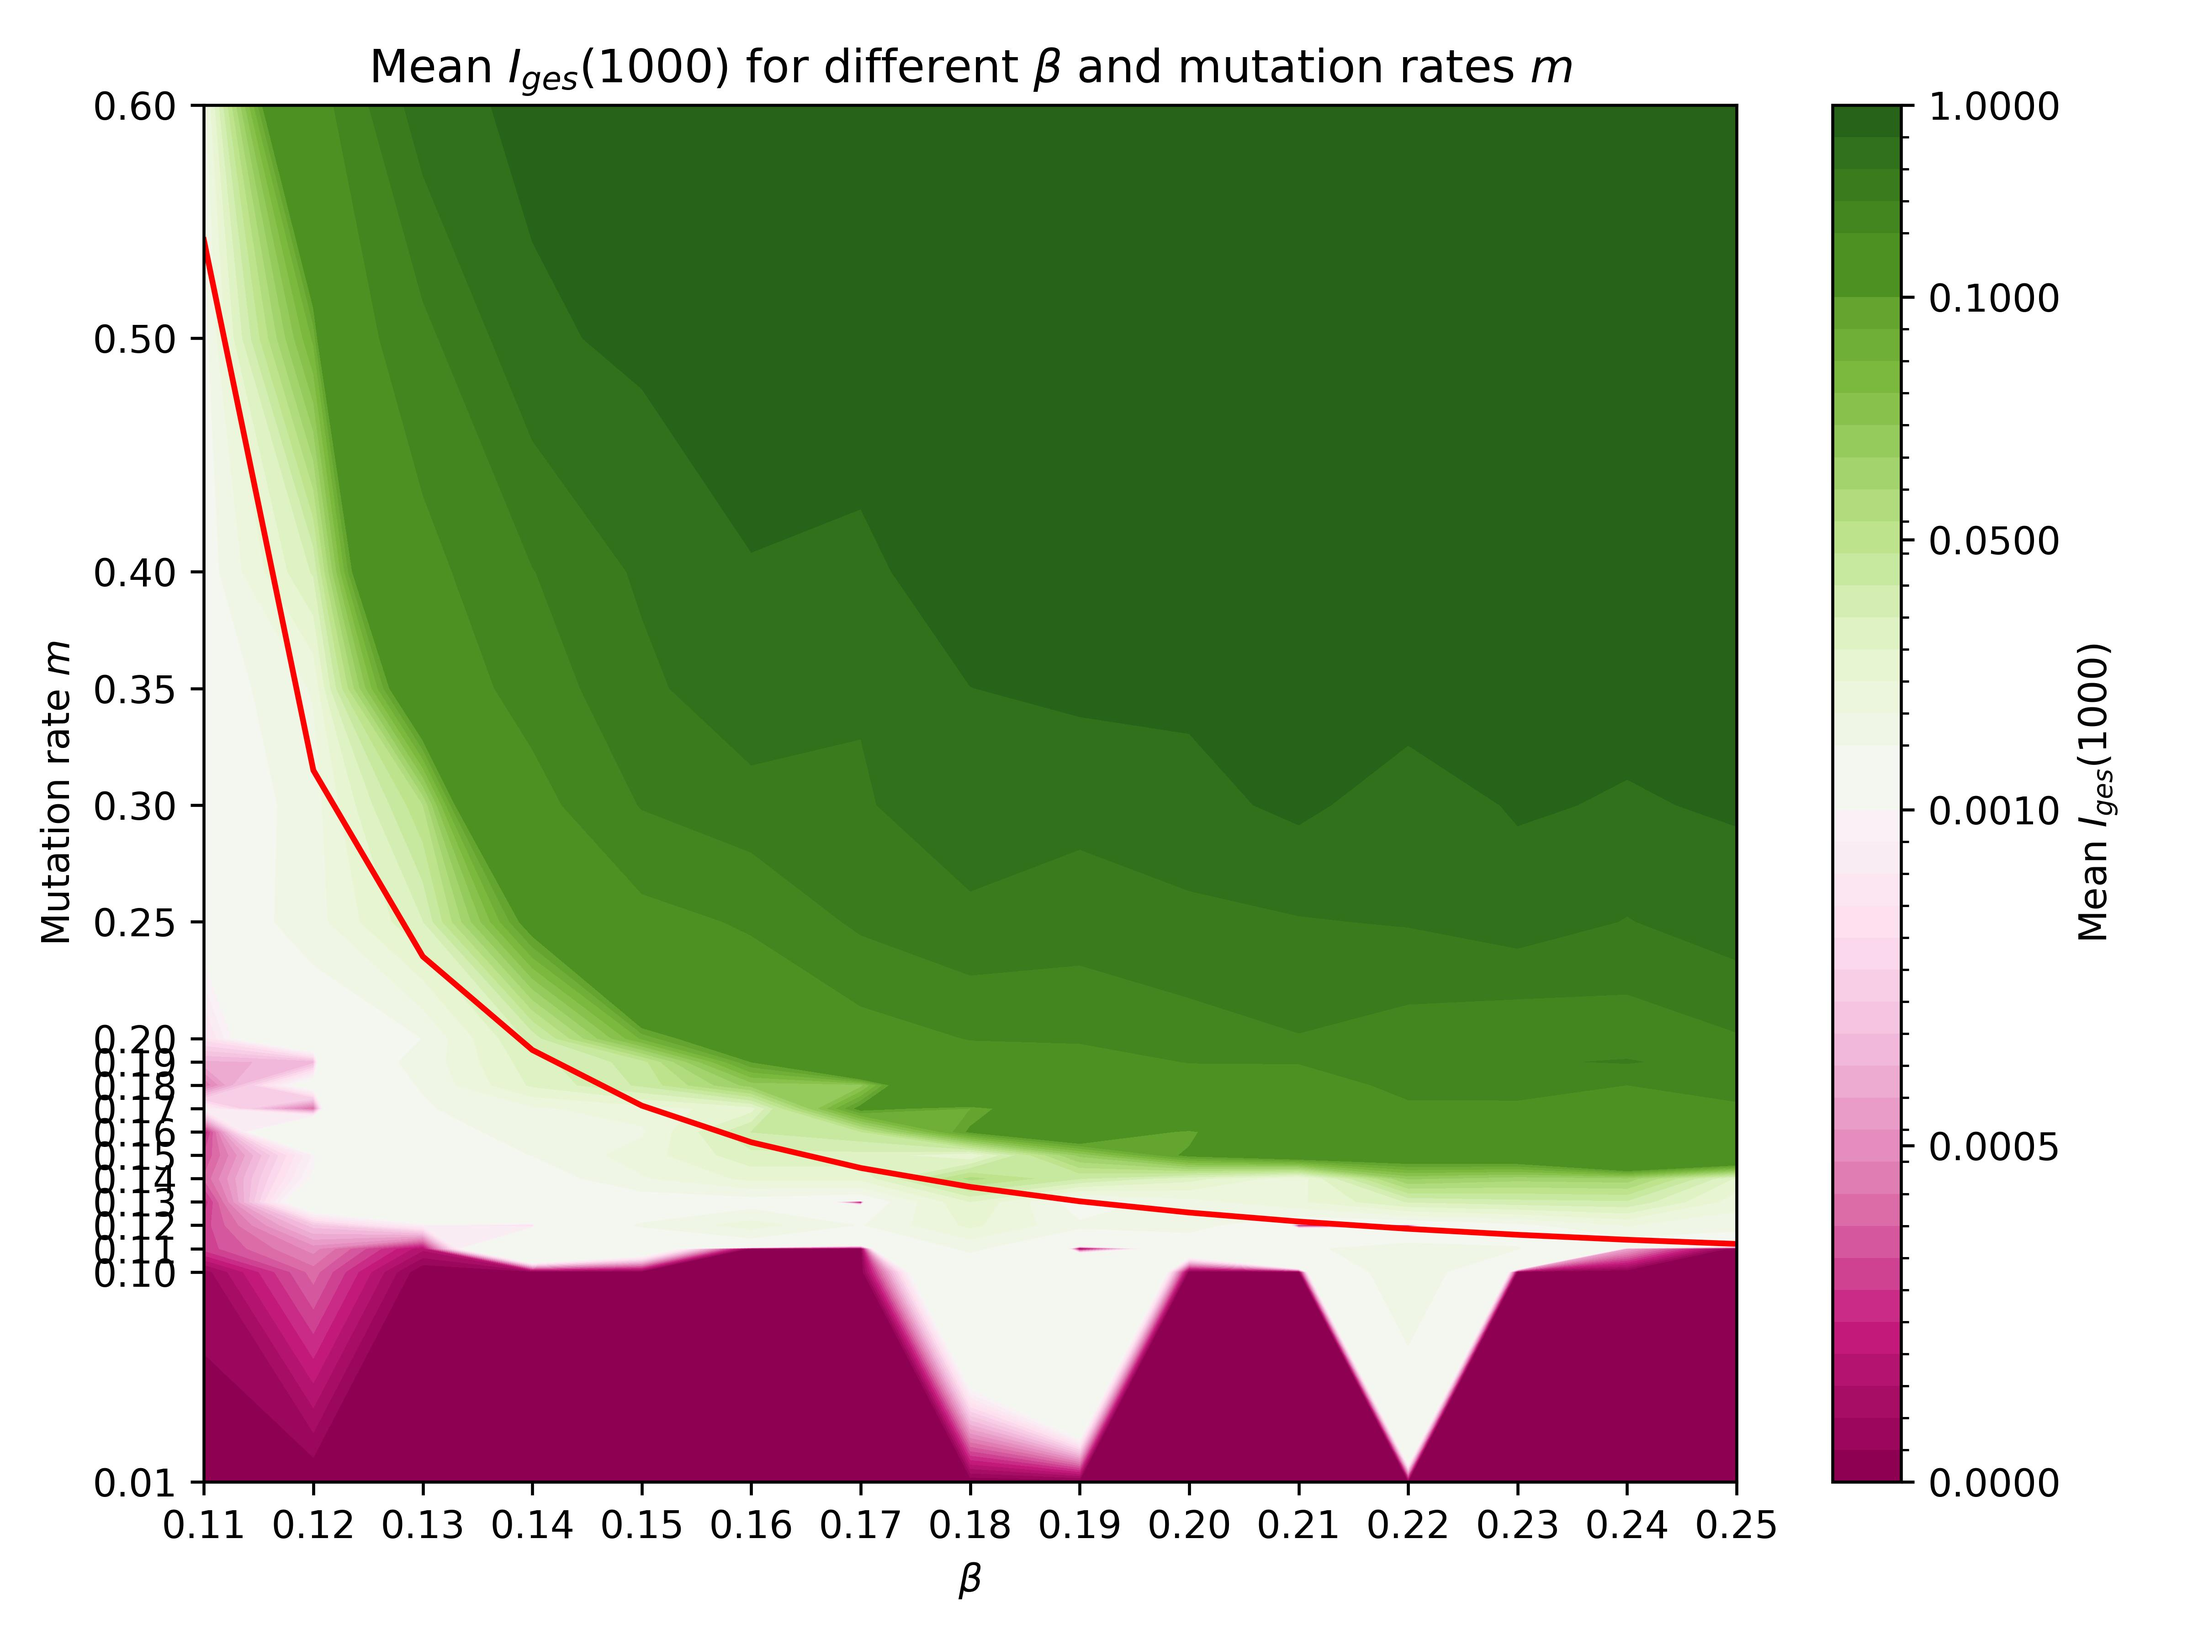
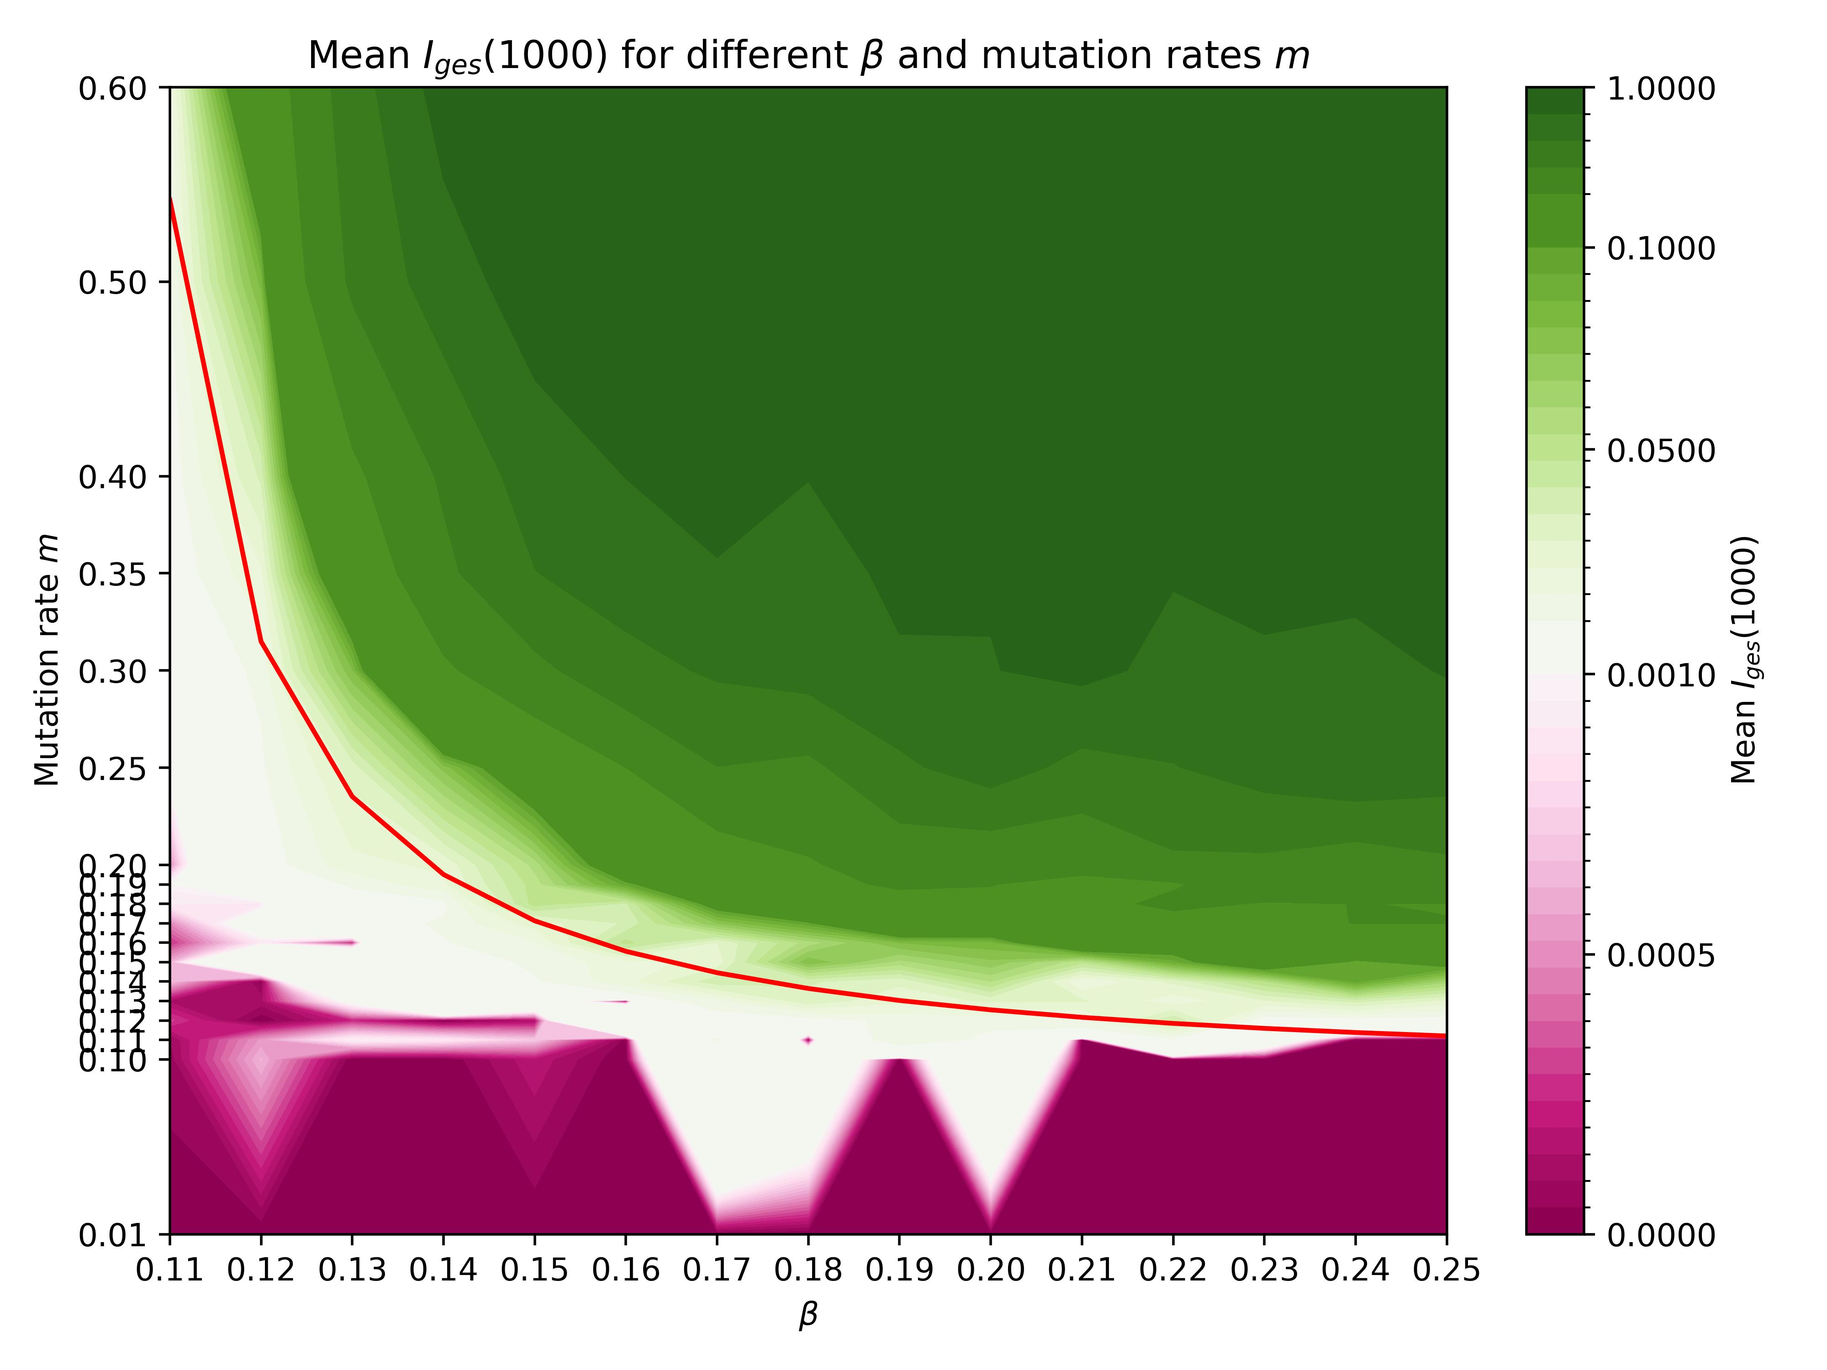
Added example computation

Changed region(s): [[0.0938, 0.403, 0.8125, 0.899], [0.0938, 0.062, 0.125, 0.093]]

diff --git a/Examples/Cross Immunity Model/final_infections_multi_variant_model_delayed_mutation_store_numpy.py b/Examples/Cross Immunity Model/final_infections_multi_variant_model_delayed_mutation_store_numpy.py
@@ -1,0 +1,173 @@
+# -*- coding: utf-8 -*-
+"""
+Created on Tue Oct 14 15:37:51 2025
+
+@author: schulte
+"""
+import numpy as np
+import os
+import matplotlib.pyplot as plt
+from numerical_simulation_of_shsvd import solve_hsvd
+from cross_immunity_model import (
+    multi_variant_model_with_total_infections,
+    new_variant_transition_function_with_total_infections,
+)
+
+"""
+Computes the final number of infections with two variants in a cross-immunity
+SIR-like model, where the second variant appears with a fixed delay, and
+stores it in a numpy array
+"""
+
+t0 = 0
+tf = 1000
+x0 = np.array([0.999, 0, 0.001, 0.001])
+beta = [0.15]
+gamma = [0.1]
+sigma = [[1]]
+gamma_new = 0.1
+t_eval = np.arange(tf + 1)
+
+betas = np.linspace(0.11, 0.2, 91)
+betas = np.round(betas, 3)
+cross_immunities = np.linspace(0, 1, 201)
+cross_immunities = np.round(cross_immunities, 3)
+delays = np.linspace(0, 250, 126)
+delays = np.round(delays)
+
+final_infections_1 = np.zeros((len(betas), len(cross_immunities), len(delays)))
+final_infections_2 = np.zeros((len(betas), len(cross_immunities), len(delays)))
+
+file_name_1 = "final_infections_1_delayed_mutation.npy"
+file_name_2 = "final_infections_2_delayed_mutation.npy"
+file_name_betas = "betas_delayed_mutation.npy"
+file_name_sigmas = "sigmas_delayed_mutation.npy"
+file_name_delays = "delays_delayed_mutation.npy"
+
+compute = True
+
+# Überprüfen, ob die Dateien existieren
+if os.path.exists(file_name_1) and os.path.exists(file_name_2):
+    betas_old = np.load(file_name_betas)
+    sigmas_old = np.load(file_name_sigmas)
+    delays_old = np.load(file_name_delays)
+    final_infections_1_old = np.load(file_name_1)
+    final_infections_2_old = np.load(file_name_2)
+
+    if (
+        betas_old == betas
+        and sigmas_old == cross_immunities
+        and delays_old == delays
+    ):
+        compute = False
+        final_infections_1 = final_infections_1_old
+        final_infections_2 = final_infections_2_old
+
+if compute:
+    for i, beta_new in enumerate(betas):
+        for j, s in enumerate(cross_immunities):
+            for k, delay in enumerate(delays):
+                sigma_new = [s]
+
+                func = solve_hsvd(
+                    multi_variant_model_with_total_infections,
+                    x0,
+                    (t0, tf),
+                    t_eval=t_eval,
+                    jump_times=[delay],
+                    jump_time_transition_function=new_variant_transition_function_with_total_infections,
+                    flow_args=(beta, gamma, sigma, 1),
+                    jump_time_transition_args=(beta_new, gamma_new, sigma_new),
+                )
+
+                final_infections_1[i, j, k] = func(tf)[-2]
+                final_infections_2[i, j, k] = func(tf)[-1]
+
+                print(
+                    rf"Computed solution for $\beta={beta_new}, \sigma={s}, \tau={delay}"
+                )
+
+    np.save(file_name_1, final_infections_1)
+    np.save(file_name_2, final_infections_2)
+    np.save(file_name_betas, betas)
+    np.save(file_name_sigmas, cross_immunities)
+    np.save(file_name_delays, delays)
+
+final_infections = final_infections_1 + final_infections_2
+
+len_betas = len(betas) - 1
+middle = len_betas // 2
+lower_middle = middle // 2
+upper_middle = middle + middle // 2
+
+plot_indices = [0, lower_middle, middle, upper_middle, -1]
+
+for idx in plot_indices:
+    max_index = np.argmax(final_infections[idx], axis=1)
+    max_delays = delays[max_index]
+
+    c = plt.pcolormesh(delays, cross_immunities, final_infections_1[idx])
+    plt.colorbar(c, label="Final number of infections with variant 1")
+    plt.title(
+        "Final number of infections with variant 1\n"
+        rf"($R_0^1=1.5, R_0^2={betas[idx]/gamma_new}, \gamma_1=\gamma_2=0.1$)"
+    )
+    plt.ylabel(r"Cross-immunity $\sigma$")
+    plt.xlabel(r"Time of mutation")
+    plt.show()
+
+    c = plt.pcolormesh(delays, cross_immunities, final_infections_2[idx])
+    plt.colorbar(c, label="Final number of infections with variant 2")
+    plt.title(
+        "Final number of infections with variant 2\n"
+        rf"($R_0^1=1.5, R_0^2={betas[idx]/gamma_new}, \gamma_1=\gamma_2=0.1$)"
+    )
+    plt.ylabel(r"Cross-immunity $\sigma$")
+    plt.xlabel(r"Time of mutation")
+    plt.show()
+
+    c = plt.pcolormesh(delays, cross_immunities, final_infections[idx])
+    plt.colorbar(c, label="Final number of infections")
+    plt.title(
+        rf"Final number of infections ($R_0^1=1.5, R_0^2={betas[idx]/gamma_new}, \gamma_1=\gamma_2=0.1$)"
+    )
+    plt.ylabel(r"Cross-immunity $\sigma$")
+    plt.xlabel(r"Time of mutation")
+    plt.show()
+
+    c = plt.contourf(delays, cross_immunities, final_infections_1[idx])
+    plt.colorbar(c, label="Final number of infections with variant 1")
+    plt.title(
+        "Final number of infections with variant 1\n"
+        rf"($R_0^1=1.5, R_0^2={betas[idx]/gamma_new}, \gamma_1=\gamma_2=0.1$)"
+    )
+    plt.ylabel(r"Cross-immunity $\sigma$")
+    plt.xlabel(r"Time of mutation")
+    plt.show()
+
+    c = plt.contourf(delays, cross_immunities, final_infections_2[idx])
+    plt.colorbar(c, label="Final number of infections with variant 2")
+    plt.title(
+        "Final number of infections with variant 2\n"
+        rf"($R_0^1=1.5, R_0^2={betas[idx]/gamma_new}, \gamma_1=\gamma_2=0.1$)"
+    )
+    plt.ylabel(r"Cross-immunity $\sigma$")
+    plt.xlabel(r"Time of mutation")
+    plt.show()
+
+    c = plt.contourf(delays, cross_immunities, final_infections[idx])
+    plt.colorbar(c, label="Final number of infections")
+    plt.title(
+        rf"Final number of infections ($R_0^1=1.5, R_0^2={betas[idx]/gamma_new}, \gamma_1=\gamma_2=0.1$)"
+    )
+    plt.ylabel(r"Cross-immunity $\sigma$")
+    plt.xlabel(r"Time of mutation")
+    plt.scatter(
+        max_delays,
+        cross_immunities,
+        color="red",
+        marker="x",
+        s=100,
+        label="Maximum",
+    )
+    plt.show()

diff --git a/Examples/Cross Immunity Model/final_infections_multi_variant_model_delayed_mutation.py b/Examples/Cross Immunity Model/final_infections_multi_variant_model_delayed_mutation.py
@@ -112,7 +112,7 @@ for r02 in r02s:
     final_infections = final_infections_1 + final_infections_2
     max_index = np.argmax(final_infections, axis=1)
     max_delays = delays[max_index]
-    
+
     c = plt.pcolormesh(delays, cross_immunities, final_infections_1)
     plt.colorbar(c, label="Final number of infections with variant 1")
     plt.title(
@@ -169,5 +169,12 @@ for r02 in r02s:
     )
     plt.ylabel(r"Cross-immunity $\sigma$")
     plt.xlabel(r"Time of mutation")
-    plt.scatter(max_delays, cross_immunities, color='red', marker='x', s=100, label='Maximum')
+    plt.scatter(
+        max_delays,
+        cross_immunities,
+        color="red",
+        marker="x",
+        s=100,
+        label="Maximum",
+    )
     plt.show()
